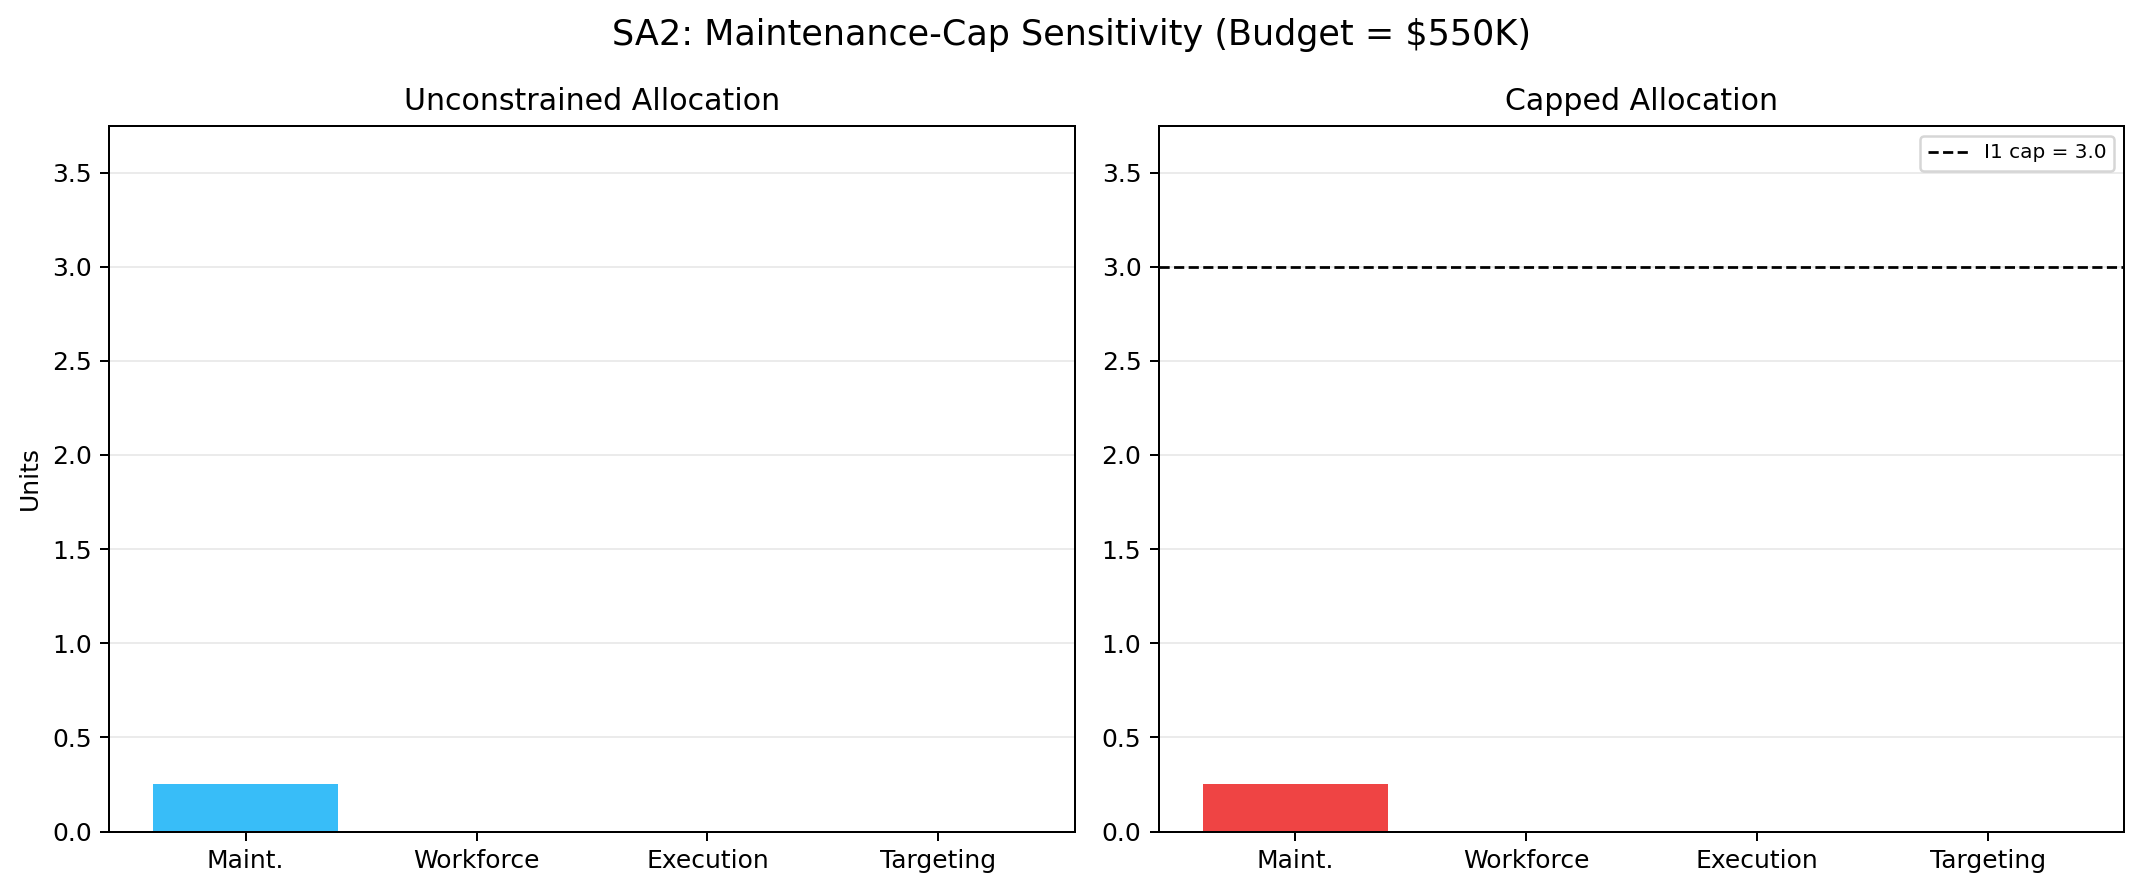
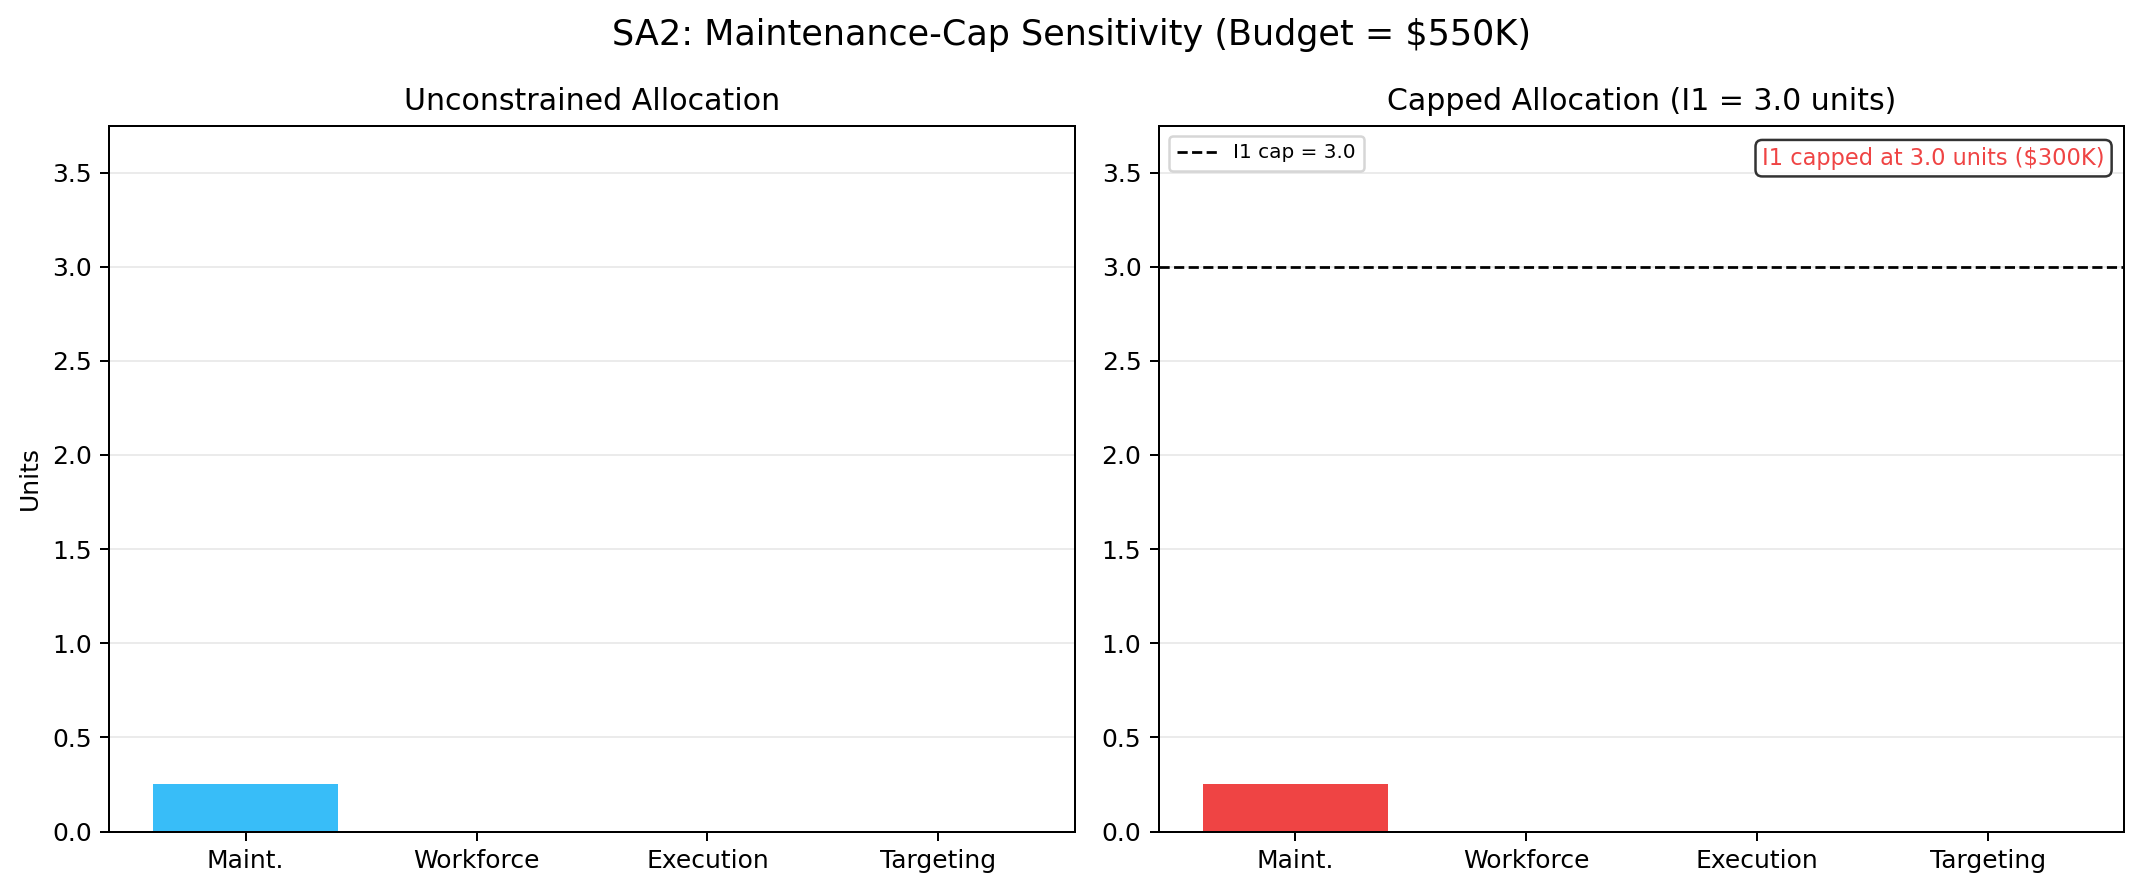
Improve SA2 graph with I1 cap annotation and updated title

Changed region(s): [[0.8011, 0.1515, 1.0, 0.2121], [0.6471, 0.0909, 0.8936, 0.1212], [0.5546, 0.1515, 0.6471, 0.1818]]

diff --git a/scripts/generate_sensitivity_figures.py b/scripts/generate_sensitivity_figures.py
@@ -457,9 +457,13 @@ def render_sa2(seeded_opt, capped_opt, cap_i1, out_path):
     ax2.bar(labels, capd, color=colors)
     ax2.axhline(cap_i1, color="black", linestyle="--", linewidth=1.1, label=f"I1 cap = {cap_i1}")
     ax2.set_ylim(0, max(max(uncon), max(capd), cap_i1) + 0.75)
-    ax2.set_title("Capped Allocation")
+    ax2.set_title("Capped Allocation (I1 = 3.0 units)")
     ax2.grid(axis="y", alpha=0.25)
     ax2.legend(fontsize=8)
+    ax2.text(0.98, 0.97, f"I1 capped at {cap_i1} units ($300K)", 
+             transform=ax2.transAxes, fontsize=9, color="#ef4444",
+             verticalalignment="top", horizontalalignment="right",
+             bbox=dict(boxstyle="round", facecolor="white", alpha=0.8))
 
     fig.suptitle("SA2: Maintenance-Cap Sensitivity (Budget = $550K)", fontsize=14)
     fig.tight_layout()